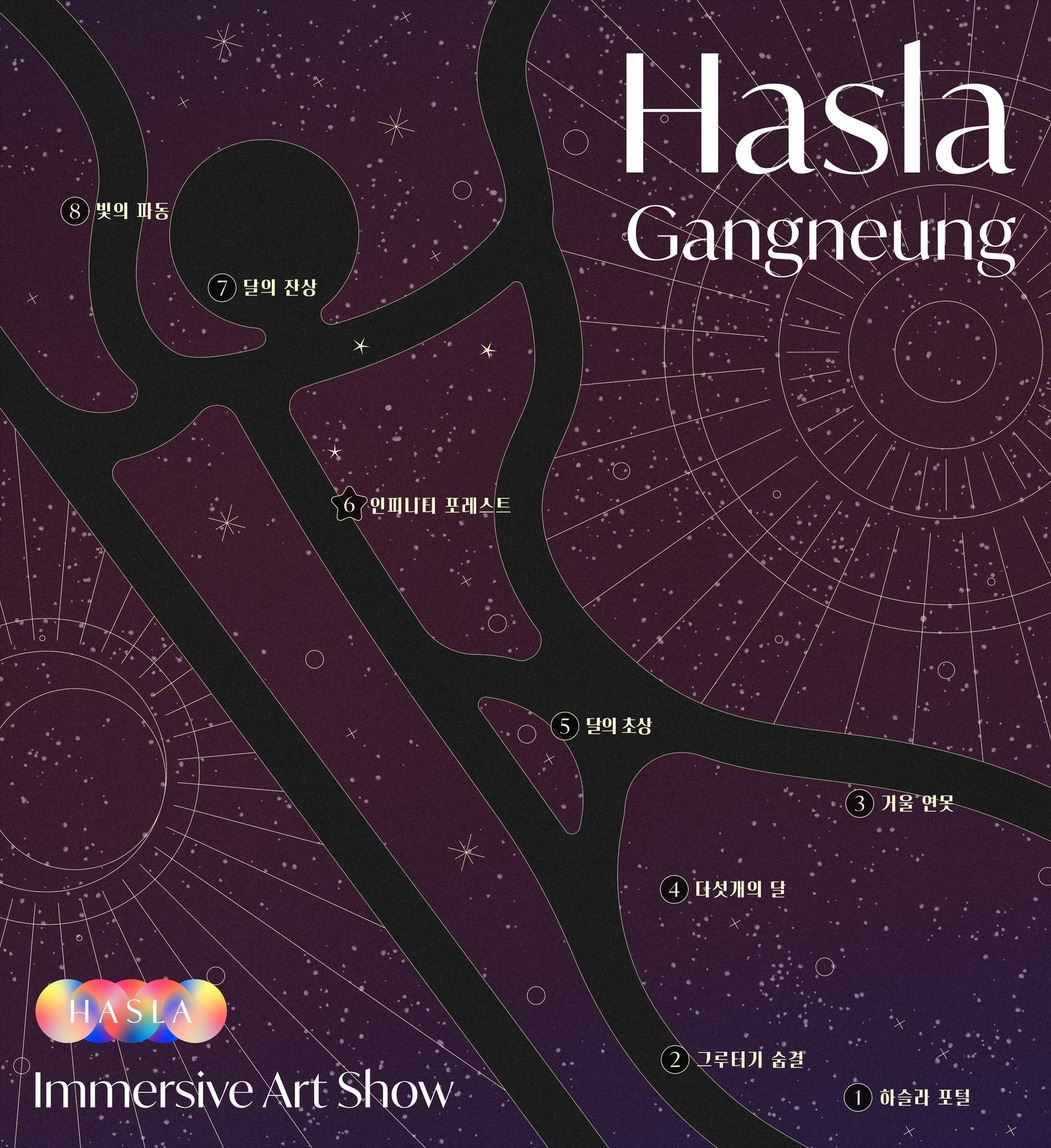
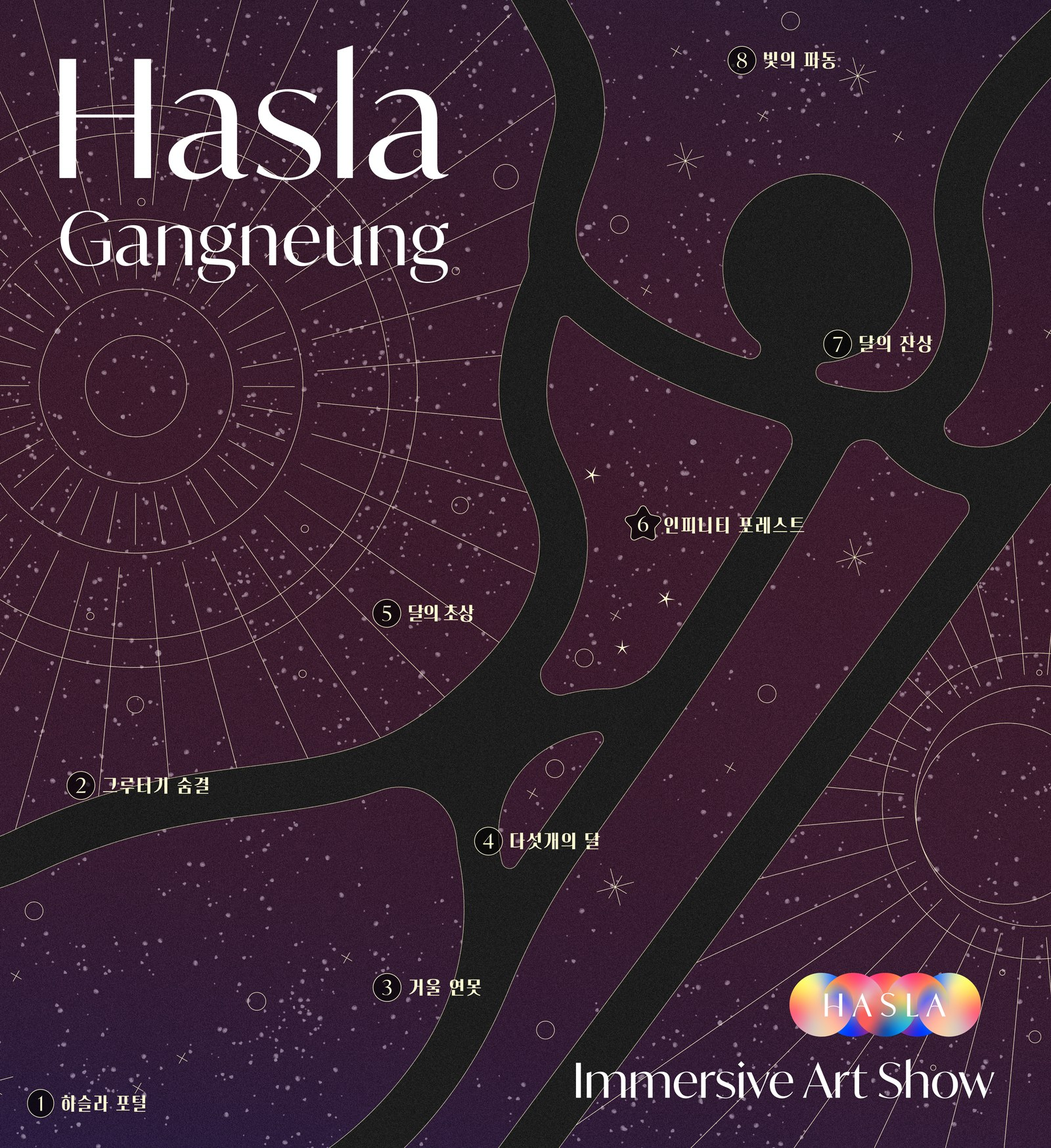
content(map): swap to new background art + reposition all 8 zone pins
- public/images/map.jpg: new artwork (10279×11228 PNG resized to
  1600×1748 JPG) with HASLA / Gangneung / Immersive Art Show typography
  baked into the background
- src/data/zones.json: rewrite every mapPin (cx,cy) for the new layout —
  previous map flowed top-left↔bottom-right; new map flows bottom-left
  (zone1) → top-right (zone8). Icon w/h sizes preserved (사용자: '아이템은
  그대로').
- aspect-[1600/1749] → aspect-[1600/1748] to match the new image
- Drop brightness-[0.82] dim — the new map is already moody/dark and
  icons need full contrast to read

diff --git a/src/app/(tabs)/map/MapPageClient.tsx b/src/app/(tabs)/map/MapPageClient.tsx
@@ -38,14 +38,14 @@ export default function MapPageClient({ zones }: Props) {
         </p>
 
         {/* Map */}
-        <div className="relative aspect-[1600/1749] w-full overflow-hidden rounded-2xl border border-border bg-card">
+        <div className="relative aspect-[1600/1748] w-full overflow-hidden rounded-2xl border border-border bg-card">
           <Image
             src="/images/map.jpg"
             alt={t.metaTitle}
             fill
             priority
             sizes="(max-width: 448px) 100vw, 448px"
-            className="object-cover brightness-[0.82]"
+            className="object-cover"
           />
           {zones.map((z, i) => {
             const L = localized(z, lang)
